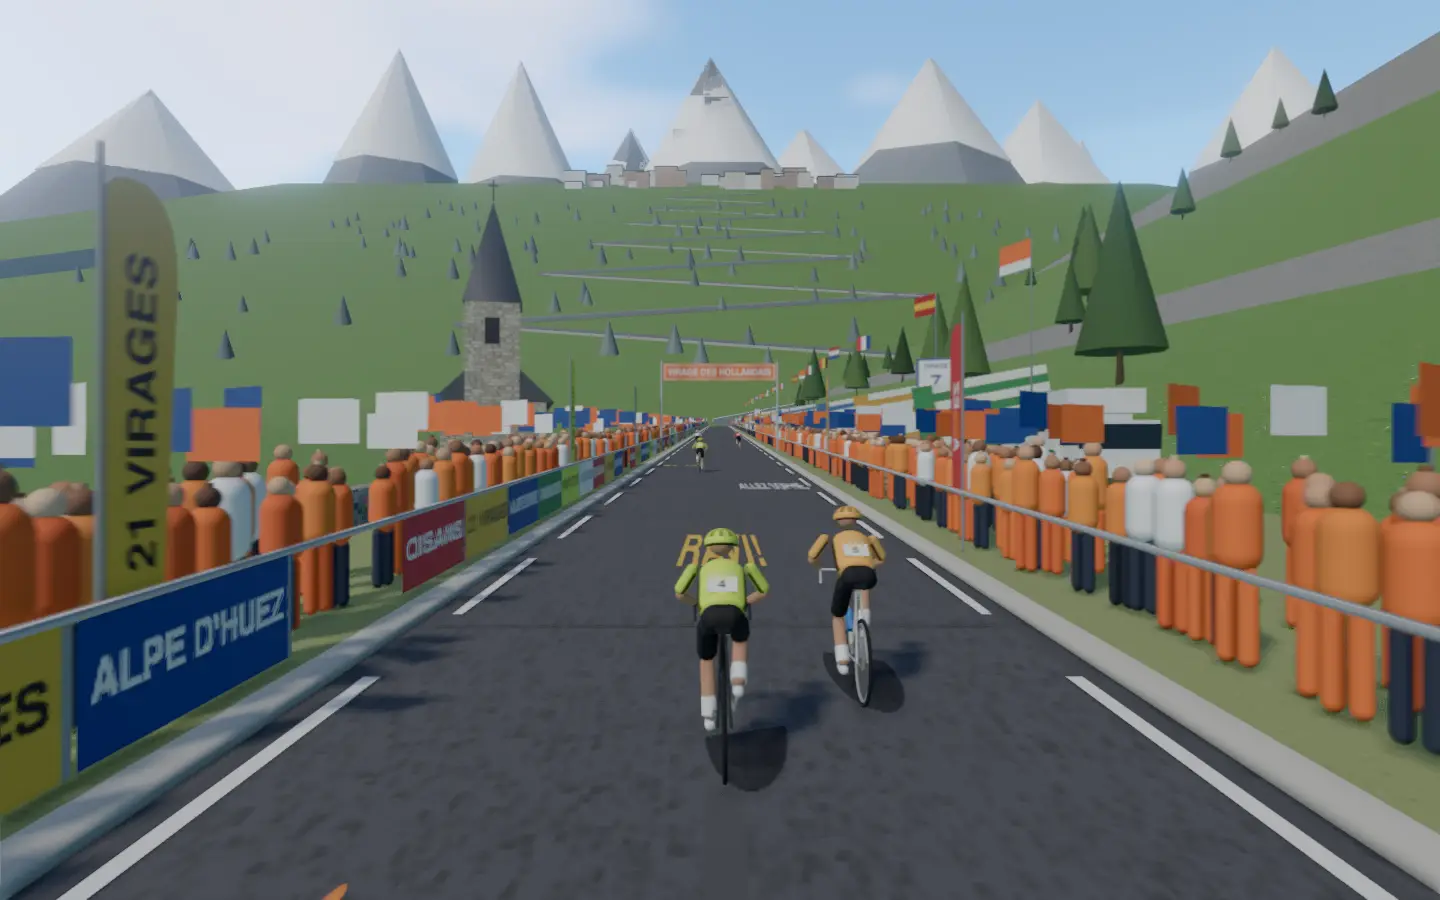
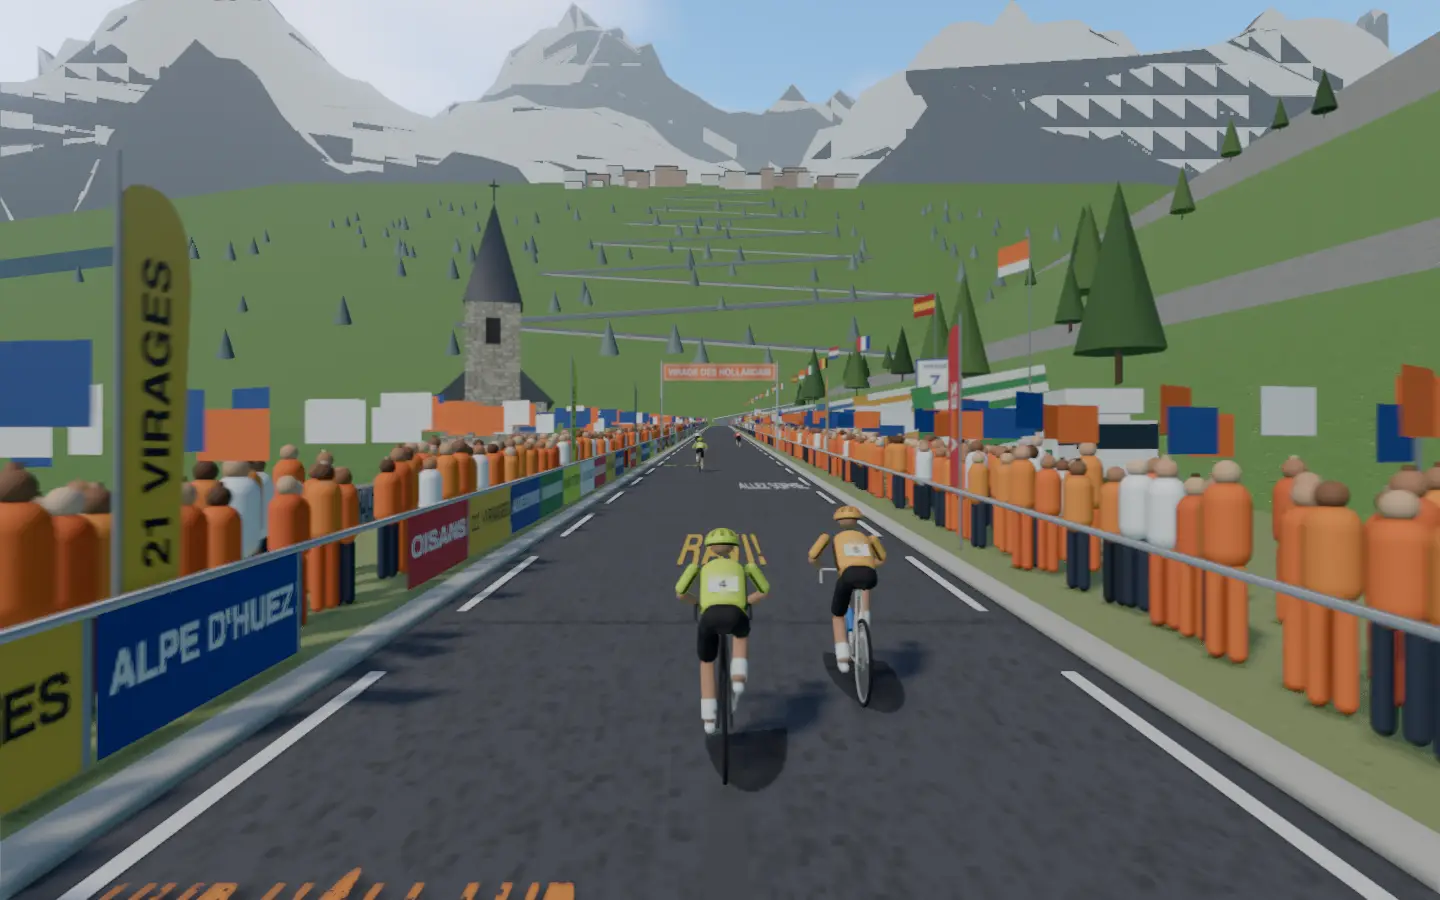
Raise the Grandes Rousses over the Alpe: jagged ridges, snowfields and glaciers

diff --git a/frontend/projects/wattzup/src/app/core/world-alpe.ts b/frontend/projects/wattzup/src/app/core/world-alpe.ts
@@ -739,33 +739,77 @@ export class AlpeStreet implements SceneStreet {
       r.position.set(p.x, p.y + tall - 4 + 3, p.z);
       h.add(r);
     }
-    // The Grandes Rousses behind: rock peaks with their snowfields and glaciers.
-    const peak = new ConeGeometry(1, 1, 7);
-    peak.translate(0, 0.5, 0);
-    this.disposables.push(peak);
-    const rockGrey = hazedMaterial(this.disposables, haze, 0x55585e, 0.3);
-    const snow = hazedMaterial(this.disposables, haze, 0xffffff, 0.04, {
-      emissive: new Color(0x9aa6b4),
-      emissiveIntensity: 0.35,
-    });
-    const pr = seeded(2311);
+    // The Grandes Rousses behind: two ridgelines of jagged rock peaks, the near one dark with
+    // snowfields draped down from its crests and glacier tongues filling its gullies, the far one
+    // paler in the haze, its snow catching the light.
     const top = upon(0, -FACE_DEPTH).y;
-    for (let k = 0; k < 11; k++) {
-      const x = -1500 + k * 300 + (pr() - 0.5) * 160;
-      const height = 520 + pr() * 420;
-      const width = 380 + pr() * 260;
-      const z = -FACE_DEPTH - 500 - pr() * 600;
-      const base = top - 140;
-      const r = new Mesh(peak, rockGrey);
-      r.scale.set(width, height, width * 0.8);
-      r.position.set(x, base, z);
-      r.rotation.y = pr() * 3;
-      const s = new Mesh(peak, snow);
-      const cap = 0.42 + pr() * 0.12;
-      s.scale.set(width * cap * 1.02, height * cap, width * 0.8 * cap * 1.02);
-      s.position.set(x, base + height * (1 - cap) + 1, z);
-      s.rotation.y = r.rotation.y;
-      h.add(r, s);
+    const ridges = [
+      {
+        z: -FACE_DEPTH - 1500,
+        base: top + 80,
+        lift: 1350,
+        rock: 0x8a909a,
+        snow: 0.26,
+        haze: 0.4,
+        seed: 2321,
+      },
+      {
+        z: -FACE_DEPTH - 700,
+        base: top - 40,
+        lift: 1050,
+        rock: 0x4c5058,
+        snow: 0.06,
+        haze: 0.2,
+        seed: 2311,
+      },
+    ];
+    for (const ridge of ridges) {
+      const pr = seeded(ridge.seed);
+      const crest: [number, number][] = [];
+      // Peaks at irregular spacing, cols between them, and small teeth along the crest.
+      for (let x = -2600; x <= 2600; x += 60) {
+        const peaks =
+          Math.sin(x / 430 + ridge.seed) * 0.5 + Math.sin(x / 170 + ridge.seed * 2) * 0.25;
+        const y = ridge.lift * (0.55 + 0.38 * peaks + (pr() - 0.5) * 0.08);
+        crest.push([x, Math.max(y, ridge.lift * 0.2)]);
+      }
+      const rock = new Shape();
+      rock.moveTo(-2600, -200);
+      for (const [x, y] of crest) rock.lineTo(x, y);
+      rock.lineTo(2600, -200);
+      rock.closePath();
+      const body = new ExtrudeGeometry(rock, { depth: 60, bevelEnabled: false, curveSegments: 1 });
+      this.disposables.push(body);
+      const r = new Mesh(body, hazedMaterial(this.disposables, haze, ridge.rock, ridge.haze));
+      r.position.set(0, ridge.base, ridge.z);
+      h.add(r);
+      // The snow: down from the crest, deeper on the high summits, ragged at its lower edge,
+      // and glacier tongues reaching far down the gullies under the cols.
+      const snow = new Shape();
+      snow.moveTo(crest[0]![0], crest[0]![1] + 2);
+      for (const [x, y] of crest) snow.lineTo(x, y + 2);
+      for (let i = crest.length - 1; i >= 0; i--) {
+        const [x, y] = crest[i]!;
+        const high = y / ridge.lift;
+        const gully = Math.max(0, Math.sin(x / 260 + ridge.seed * 3)) ** 6;
+        const depth =
+          ridge.lift *
+          (0.08 + high * 0.28 + gully * 0.3) *
+          (0.85 + 0.25 * Math.sin(x / 110 + ridge.seed));
+        snow.lineTo(x, y - depth);
+      }
+      snow.closePath();
+      const white = new ExtrudeGeometry(snow, { depth: 2, bevelEnabled: false, curveSegments: 1 });
+      this.disposables.push(white);
+      const s = new Mesh(
+        white,
+        hazedMaterial(this.disposables, haze, 0xffffff, ridge.snow, {
+          emissive: new Color(0xb4c0cc),
+          emissiveIntensity: 0.3,
+        }),
+      );
+      s.position.set(0, ridge.base, ridge.z + 61);
+      h.add(s);
     }
     // The valley's far side to the left, its slopes forested and its ridges bare.
     const ridge = new Shape();

diff --git a/docs/class-worlds.md b/docs/class-worlds.md
@@ -34,7 +34,7 @@ Every class in `frontend/public/classes.json`, with its World Ride scene. Render
 | 28 | Easy Riding | Napa Vineyards | 80% | Rows of vines climb the golden hills either side of the valley road on a warm Californian afternoon, past oak-shaded stone wineries and their tasting terraces toward a mission-style winery with a bell tower on a knoll ahead. The three-minute warm-up rolls between the vine rows, the short vineyard rises climb past the stone wineries under the oaks, and the two-minute pushes ride on toward the bell tower. |
 | 29 | Quick HIIT Sprint Workout | Las Vegas Strip | 70% | Neon casinos and dancing fountains after midnight; sprint from light to light down the boulevard. |
 | 30 | Super High Cadence Sprints | Shibuya Crossing (concept) |  | Tokyo in neon rain; spin fast through the scramble beneath towering video screens. |
-| 31 | Elevate Your Climbing Power | Alpe d'Huez | 72% | Twenty-one numbered hairpins stack up the mountainside above Bourg-d'Oisans on a blazing July afternoon, the tarmac covered in painted names and fans and camper vans packed onto every bend under the snowy peaks of the Grandes Rousses. The two-minute warm-up rolls out of the valley, each one-minute attack kicks round a hairpin through the orange roar of Dutch Corner by the church of Huez, and the two-minute blocks grind up the steep ramps toward the ski station at the top. |
+| 31 | Elevate Your Climbing Power | Alpe d'Huez | 74% | Twenty-one numbered hairpins stack up the mountainside above Bourg-d'Oisans on a blazing July afternoon, the tarmac covered in painted names and fans and camper vans packed onto every bend under the snowy peaks of the Grandes Rousses. The two-minute warm-up rolls out of the valley, each one-minute attack kicks round a hairpin through the orange roar of Dutch Corner by the church of Huez, and the two-minute blocks grind up the steep ramps toward the ski station at the top. |
 | 32 | High Power Tempo With Short Sprints | Route 66 Desert | 72% | Arizona's open highway, red mesas and chrome diners; hold tempo, then sprint for each roadside sign. |
 | 33 | Spicy Maximum Minute Efforts | Día de Muertos Parade (concept) |  | Marigolds, sugar skulls and giant skeletons along Mexico City's Paseo de la Reforma. |
 | 34 | Short, Sharp & Hard Efforts | Montmartre (concept) |  | Paris cobbles winding up to Sacré-Cœur; short, sharp kicks past cafés and painters. |

diff --git a/docs/detailed-designs/world-ride/draw-class-scene/README.md b/docs/detailed-designs/world-ride/draw-class-scene/README.md
@@ -353,7 +353,7 @@ None.
   - fans packed behind the barriers at every bend (the shared crowd), thinning only between bends, and at Dutch Corner, in the opening view, a second shared crowd all in orange with orange and red-white-blue flags;
   - at every bend, 125 m apart, a white VIRAGE sign with a blue border on the mountain side, counting down from bend 7 at Dutch Corner, with its altitude;
   - the church of Huez on the outside of Dutch Corner, below the wall: a stone nave under a steep slate roof, a square bell tower with louvred openings under a slate spire and its cross, and a low graveyard wall;
-  - 280 m ahead, at the road's end, the mountainside rising at 22°, its meadows and rock bands crossed by fourteen hairpin legs stacked one above another with low walls on their outer edges, firs between them; at the top the ski station's blocks and chalets, white and timber with rows of balconies; behind it the snowy rock peaks of the Grandes Rousses; to the left the valley's far side, all hazed by hand. Everything along the road is hidden past the face's foot.
+  - 280 m ahead, at the road's end, the mountainside rising at 22°, its meadows and rock bands crossed by fourteen hairpin legs stacked one above another with low walls on their outer edges, firs between them; at the top the ski station's blocks and chalets, white and timber with rows of balconies; behind it the Grandes Rousses about 1,500 m above the station in two jagged ridgelines, the near one dark rock with snowfields draped down from its crests and glacier tongues reaching down the gullies under its cols, the far one paler in the haze; to the left the valley's far side, all hazed by hand. Everything along the road is hidden past the face's foot.
 
   `lay`, `place` and `setTime` recycle it along a 500 m loop.
 - **Saguaro Desert (`core/world-saguaro.ts`).** For `saguaro`, the Sonoran desert outside Tucson at sunrise:
